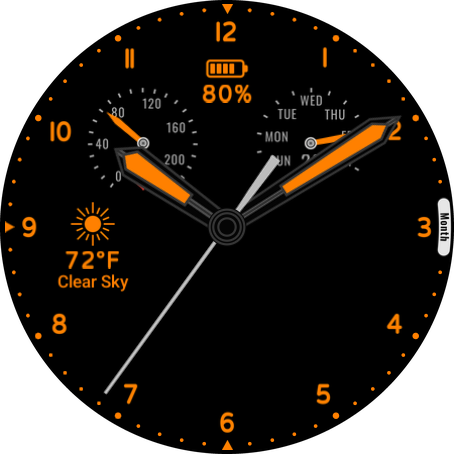
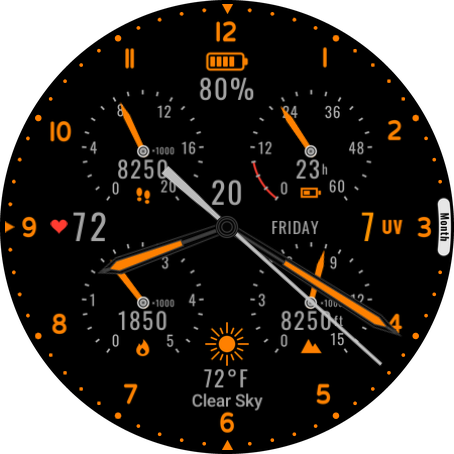
Update the README pictures, with always-on mode
The README shows the current face beside a new always-on capture. The
test build's fixed time (also the picker preview's) moves to 8:20:22,
which keeps the hands clear of every reading, and the picker preview is
recaptured to match.

diff --git a/tools/generate.py b/tools/generate.py
@@ -2274,8 +2274,9 @@ def render_images():
     render_second_hand()
 
 
-#: The test build's time (hour, minute, second), also the picker preview's.
-TEST_TIME = (10, 9, 36)
+#: The test build's time (hour, minute, second), also the picker preview's: the
+#: hands down the lower left and right, between the gauges' readings.
+TEST_TIME = (8, 20, 22)
 #: The test build's weather, in place of the watch's (the emulator often
 #: has none): the WEATHER data sources' values, unit 2 being Fahrenheit.
 TEST_WEATHER = dict(IS_AVAILABLE=1, IS_DAY=1, CONDITION=1, TEMPERATURE=72,

diff --git a/README.md b/README.md
@@ -6,10 +6,15 @@ later watch.
 It is built with the [Watch Face Format](https://developer.android.com/training/wearables/wff)
 (version 4), which Google requires for watch faces.
 
-![Night Dial on the Wear OS 7 emulator](docs/screenshot.png)
+<p align="center">
+  <img src="docs/screenshot.png" width="380" alt="Night Dial on the Wear OS 7 emulator">
+  <img src="docs/screenshot-ambient.png" width="380" alt="Night Dial in always-on mode">
+</p>
 
-*Test build (`./build.sh test`) on the Wear OS 7 emulator, at the test build's fixed time of
-10:09:36.*
+*The Wear OS 7 emulator. Left: the test build (`./build.sh test`) at its fixed time of
+8:20:22, with its sample readings (72°F and clear, UV 7, 80% battery, 23 hours left, 8,250
+steps, 1,850 calories, 8,250 ft, a heart rate of 72, Friday the 20th of March). Right:
+always-on mode.*
 
 ## The face
 
@@ -37,8 +42,9 @@ It is built with the [Watch Face Format](https://developer.android.com/training/
   open at the bottom, an orange pointer on a light gray hub, and the hours of battery left
   below the hub (with a small "h"), from 0 to 60 h, with a red band through the ticks from
   0 to 9 h. The pointer stops at 60. The hours come from DataDial Stats, which measures how
-  fast the battery has been draining since it was last unplugged; while charging, or
-  before it has seen the battery drop a couple of percent, "--" and the pointer at 0.
+  fast the battery has been draining since it was last unplugged (DataDial 1.0.4 or later);
+  while charging, or before it has seen the battery drop a couple of percent, "--" and the
+  pointer at 0.
 - **Steps:** a matching gauge in the 10:30 segment, from 0 to 20,000 (labels in thousands):
   the pointer stops at 20,000, while today's steps below the hub show the full count, in
   green once they reach the step goal, with orange footprints below them. They come from
@@ -78,6 +84,7 @@ size. Edit the script, not the generated files.
 | `watchface/src/main/res/xml/watch_face_info.xml` | Preview image and picker settings |
 | `watchface/src/main/res/values/strings.xml` | Names shown in the picker and editor |
 | `watchface/src/main/res/drawable/preview.png` | Picker and store preview (an emulator capture of the test build) |
+| `docs/screenshot.png`, `docs/screenshot-ambient.png` | The pictures above (emulator captures of the test build, awake and in always-on mode) |
 
 ## Build
 
